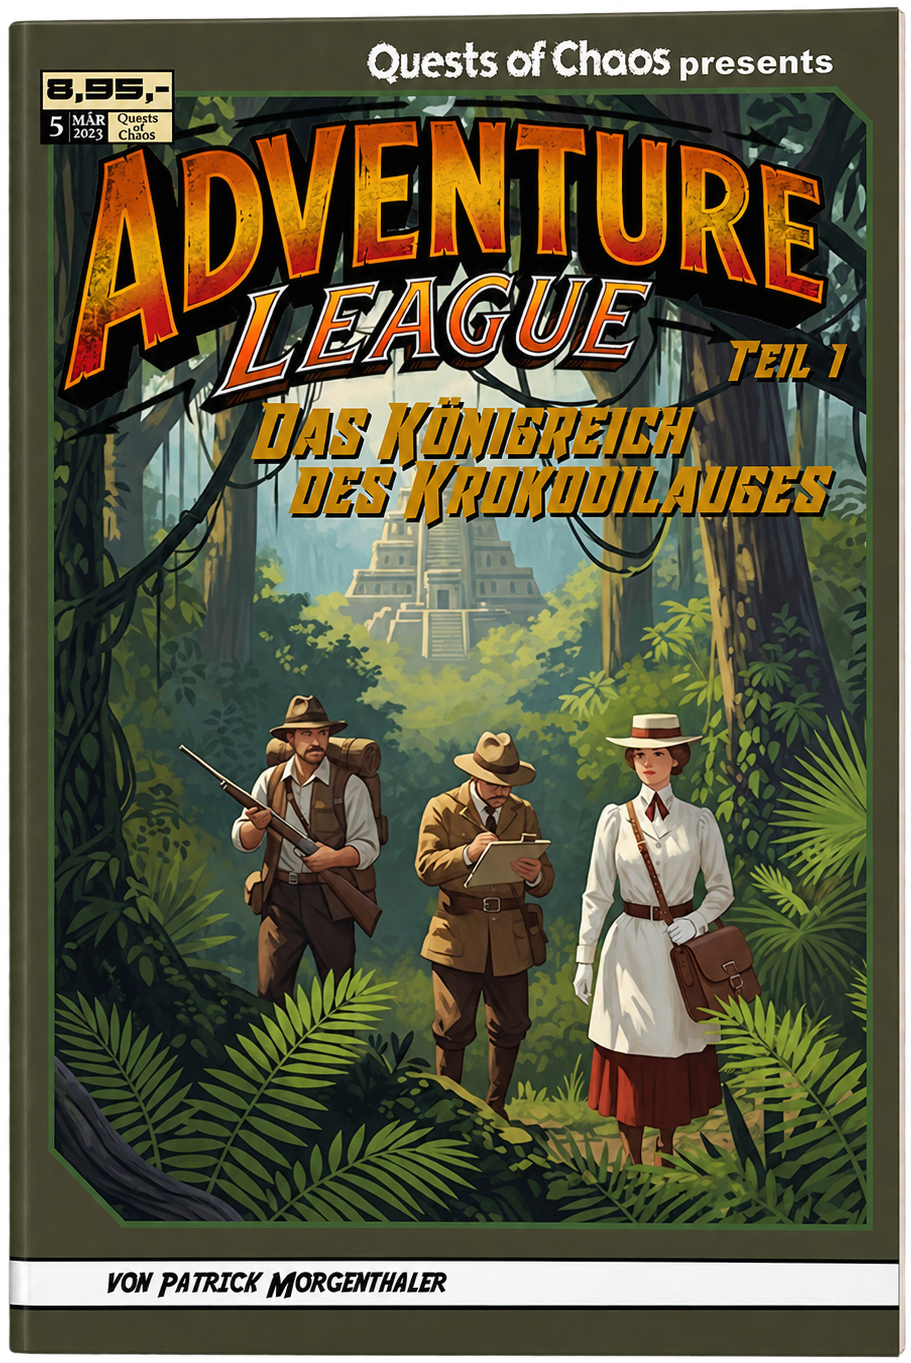
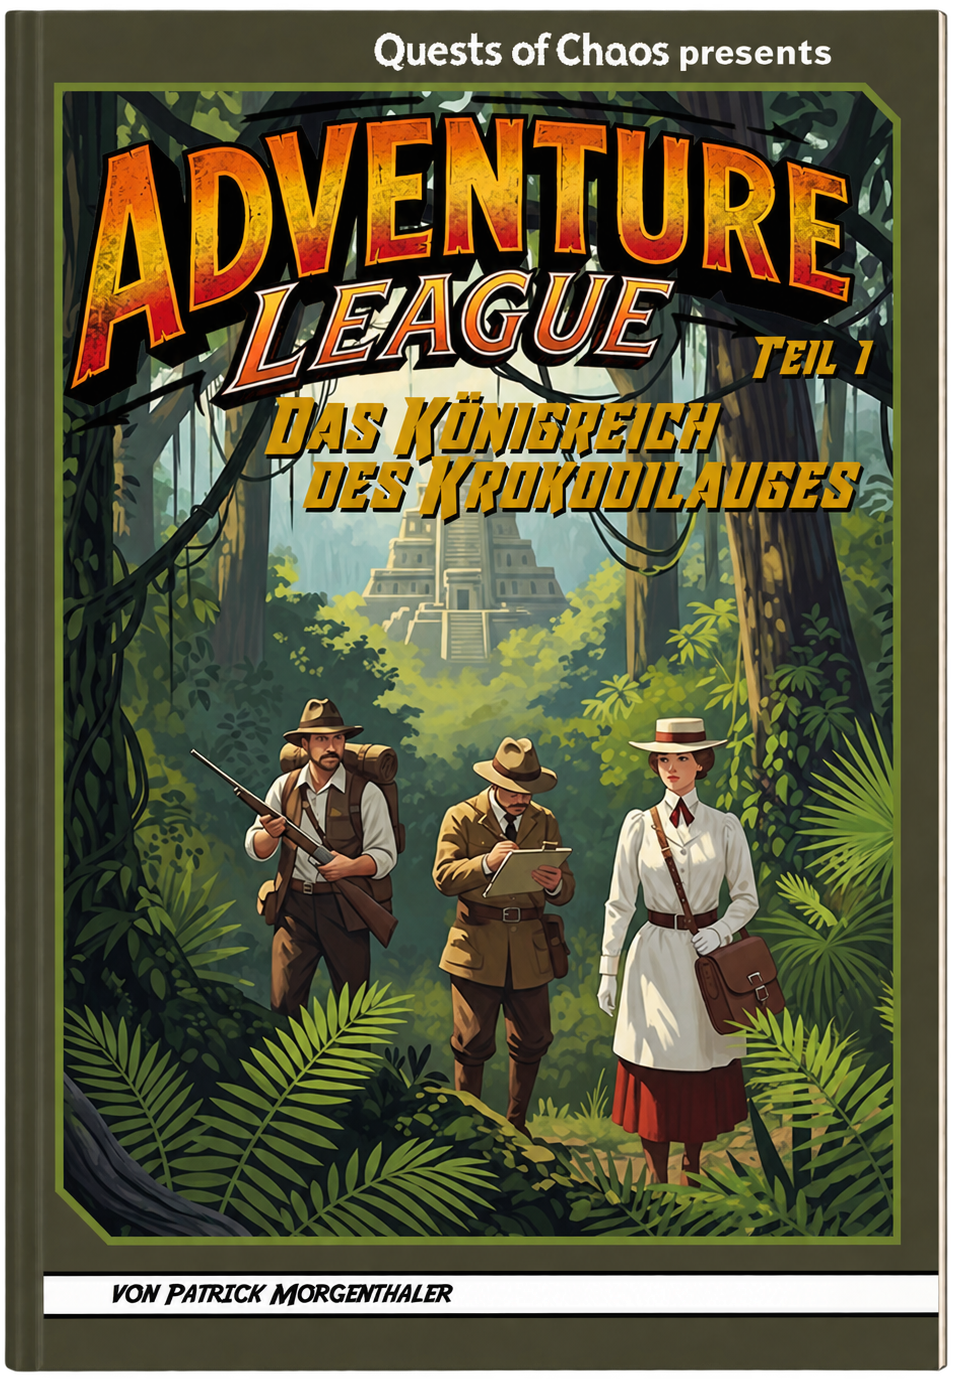
Added rulebooks Updated cover for adventure league Updated single view for books and adventures

diff --git a/themes/qoc/layouts/adventures/single.html b/themes/qoc/layouts/adventures/single.html
@@ -11,11 +11,15 @@
 {{- end }}
 
 <h1>{{ .Title }}</h1>
-{{- if .Params.book }}
-<p>{{ .Params.book }}</p>
-{{- end }}
+
+<div class="mb-4">
+  {{ .Content }}
+</div>
 
 <p>
+  {{- if .Params.book }}
+  {{ .Params.book }}<br>
+  {{- end }}
   <b>Genre:</b> {{ .Params.genre }}<br>
   <b>Format:</b> {{ .Params.format }} ({{ .Params.duration }})<br>
   <b>{{ if gt (len .Params.authors) 1 }}Autoren{{ else }}Autor{{ end }}:</b> {{ range $k, $v := .Params.authors }}{{ if $k }}, {{ end }}{{ $v.name }}{{ end }}<br>
@@ -24,11 +28,8 @@
   {{- end }}
 </p>
 
-{{ .Content }}
 
 <div class="mt-3 d-flex gap-2 align-items-start">
-
-
   {{- if .Params.link }}
     {{- if eq .Params.free true }}
     <a href="{{ .Params.link }}" class="btn btn-primary" data-umami-event="DownloadAdventure" data-umami-event-file="{{ .Title }}">Herunterladen</a>

diff --git a/themes/qoc/layouts/books/single.html b/themes/qoc/layouts/books/single.html
@@ -11,11 +11,14 @@
 {{- end }}
 
 <h1>{{ .Title }}</h1>
+
+<div class="mb-4">
+  {{ .Content }}
+</div>
+
 {{- if .Params.book }}
 <p>{{ .Params.book }}</p>
 {{- end }}
-
-{{ .Content }}
 
 <div class="mt-3 d-flex gap-2 align-items-start">
 

diff --git a/content/books/player-guide.md b/content/books/player-guide.md
@@ -1,11 +1,25 @@
 ---
 title: "Spielerhandbuch"
-image_teaser: "images/adventures/placeholder.png"
+image_teaser: "images/books/player-handbook.png"
 image_teaser_position: "top"
-description: "Alles was der Spieler zum spielen braucht."
+image: "images/books/player-handbook-cover.png"
+description: "Das Spielerhandbuch begleitet dich bei der Erschaffung deines Charakters und erklärt die wichtigsten Regeln. Entdecke Berufe, Hobbys, Talente und Ausrüstung für deine Abenteuer in Quests of Chaos."
 book: "251 Seiten, Softcover Buch"
 draft: false
 free: false
 order: 2
 ---
-Alles was der Spieler zum spielen braucht. Weitere Informationen folgen.
+
+__Dein Abenteuer. Deine Entscheidungen. Dein Chaos.__
+
+Dieses Buch ist dein unverzichtbarer Leitfaden, um in die unbarmherzige und faszinierende Welt von Quests of Chaos einzutauchen.
+
+**Erschaffe deinen Charakter:** Wähle aus Berufen, Hobbys, Talenten und prägenden Schwächen.
+
+**Meistere die Grundregeln:** Von harten Nahkämpfen über riskante Schusswechsel bis hin zu rasanten Fahrzeugjagden - hier erfährst du, wie der W20 über dein Schicksal entscheidet.
+
+**Rüste dich aus:** Von improvisierten Schlagwaffen über militärische Sturmgewehre bis hin zu lebensrettender Ausrüstung und Fahrzeugen.
+
+Quests of Chaos ist eine Regelwerksystem für Pen and Paper Rollenspiele, welches zwar universell einsetzbar ist, für das aber eine eigen erschaffene Welt mit zahlreichen Abenteuern existiert. Packe deinen Rucksack, stimme dich mit deiner Gruppe ab und stelle dich dem Chaos.
+
+**Doch vergiss nicht:** Das kosmische Gefüge ist fragil - und jede Entscheidung hat ihren Preis.

diff --git a/content/books/basic-rules.md b/content/books/basic-rules.md
@@ -1,11 +1,19 @@
 ---
 title: "Grundregelwerk"
-image_teaser: "images/adventures/placeholder.png"
+image_teaser: "images/books/rulebook.png"
 image_teaser_position: "top"
-description: "Alles was ihr zum spielen braucht."
+image: "images/books/rulebook-cover.png"
+description: "Das Grundregelwerk enthält alles, was du zum Spielen von Quests of Chaos brauchst. Erstelle Charaktere, meistere actionreiche Kämpfe und entdecke die Welt von Cthula Lumpor."
 book: "251 Seiten, Softcover Buch"
 draft: false
 free: false
 order: 1
 ---
-Alles was ihr zum spielen braucht. Weitere Informationen folgen.
+
+Du willst leicht zugängliche Regeln? Ein rasantes Würfelsystem, welches Würfelorgien vermeidet und somit actionreiche Kämpfe bietet? Du willst ein Regelwerk, das gutes Storytelling in den Vordergrund stellt und universell einsetzbar ist, um so in den verschiedensten Settings zu funktionieren?
+
+__Willkommen in der Welt von Quests of Chaos.__
+
+Im Zentrum wacht ein unerbittlicher Mechanismus über das kosmische Gleichgewicht: die Chaos-Skala. Jede Manipulation des Schicksals oder verhinderte Patzer treibt die Skala in die eine oder andere Richtung. Droht das System zu kippen, entlädt sich das Chaos im absoluten Kollaps. So wird Ressourcenmanagement zu einer taktischen Meta-Ebene für Spieler und Spielleiter.
+
+In diesem Grundregelwerk findest du alles, was zum Erstellen der Spielercharaktere benötigt wird. Des Weiteren sind alle Regeln, Kampfregeln, Detail- und Sonderregeln, eine Beschreibung der Welt Cthula Lumpor, der Monster und Sondergegner enthalten, was dieses Buch für jeden Spielleiter unabdingbar macht.
